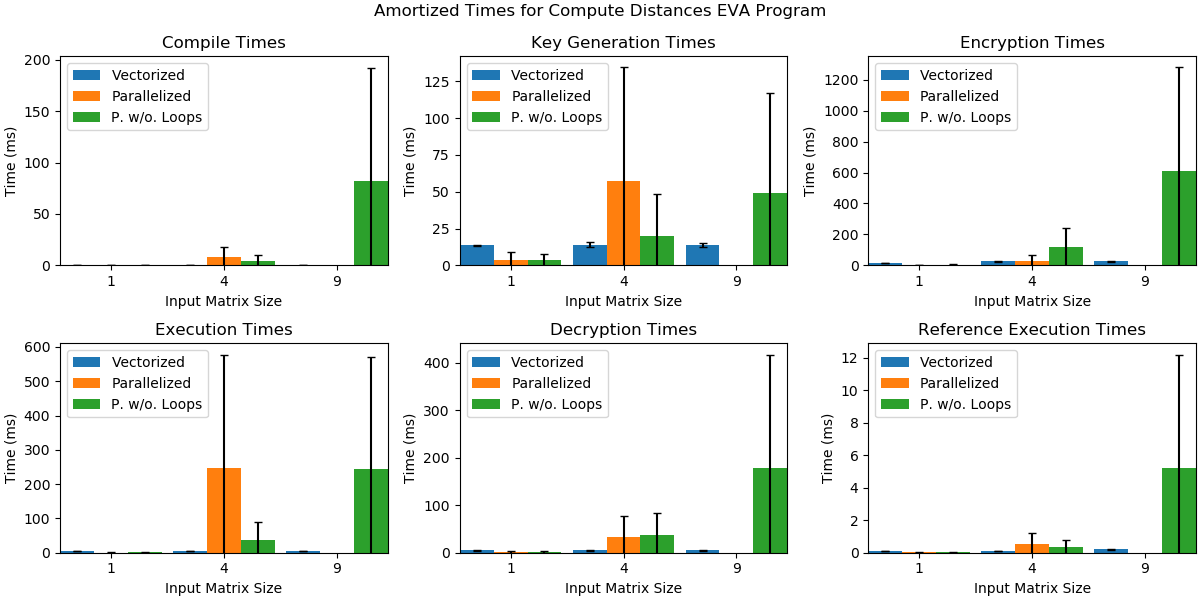
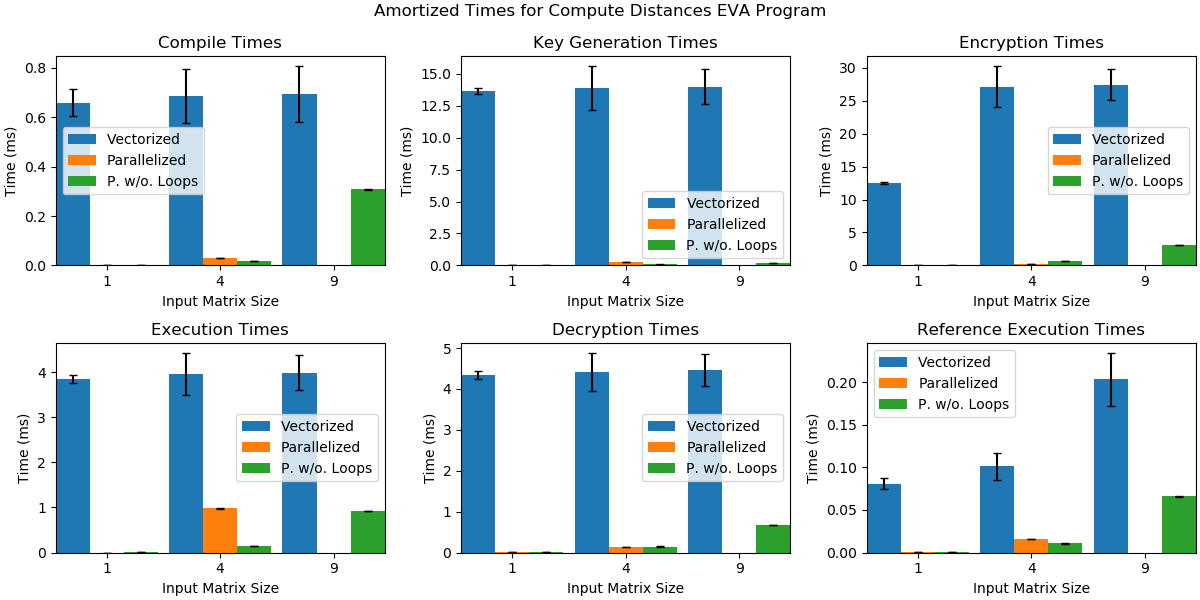
change amortized analysis

diff --git a/results/plot_inputsize_amortized.py b/results/plot_inputsize_amortized.py
@@ -23,6 +23,7 @@ for i in range(len(reduce_files)):
 	df = pd.read_csv(distances_file).drop(columns=['sim'])
 	df = df[((df['n'] == 1) | (df['n'] == 2) | (df['n'] == 3))]
 	if i != 0:
+		df = df[df['VecSize'] == 1024]
 		df['CompileTime'] = df['CompileTime'] / df['VecSize']
 		df['KeyGenerationTime'] = df['KeyGenerationTime'] / df['VecSize']
 		df['EncryptionTime'] = df['EncryptionTime'] / df['VecSize']
@@ -72,6 +73,7 @@ for i in range(len(distances_files)):
 	df = pd.read_csv(distances_file).drop(columns=['sim'])
 	df = df[((df['n'] == 1) | (df['n'] == 2) | (df['n'] == 3))]
 	if i != 0:
+		df = df[df['VecSize'] == 1024]
 		df['CompileTime'] = df['CompileTime'] / df['VecSize']
 		df['KeyGenerationTime'] = df['KeyGenerationTime'] / df['VecSize']
 		df['EncryptionTime'] = df['EncryptionTime'] / df['VecSize']

diff --git a/results/plot_totalruntime.py b/results/plot_totalruntime.py
@@ -77,6 +77,7 @@ for i in range(len(reduce_files)):
 	df['n'] = df['n'] * df['n']
 	df['total'] = df['CompileTime'] + df['KeyGenerationTime'] + df['EncryptionTime'] + df['ExecutionTime'] + df['DecryptionTime'] + df['ReferenceExecutionTime']
 	if i != 0:
+		df = df[df['VecSize'] == 1024]
 		df['total'] = df['total']/df['VecSize']
 	gb = df.groupby(['n'])
 	gb_values = list(gb.groups)
@@ -96,6 +97,7 @@ for i in range(len(distances_files)):
 	if i != 1:
 		df['total'] = df['total'] * (df['n']**2/2).apply(np.ceil) * df['n']**2
 	if i != 0:
+		df = df[df['VecSize'] == 1024]
 		df['total'] = df['total']/df['VecSize']
 	gb = df.groupby(['n'])
 	gb_values = list(gb.groups)
